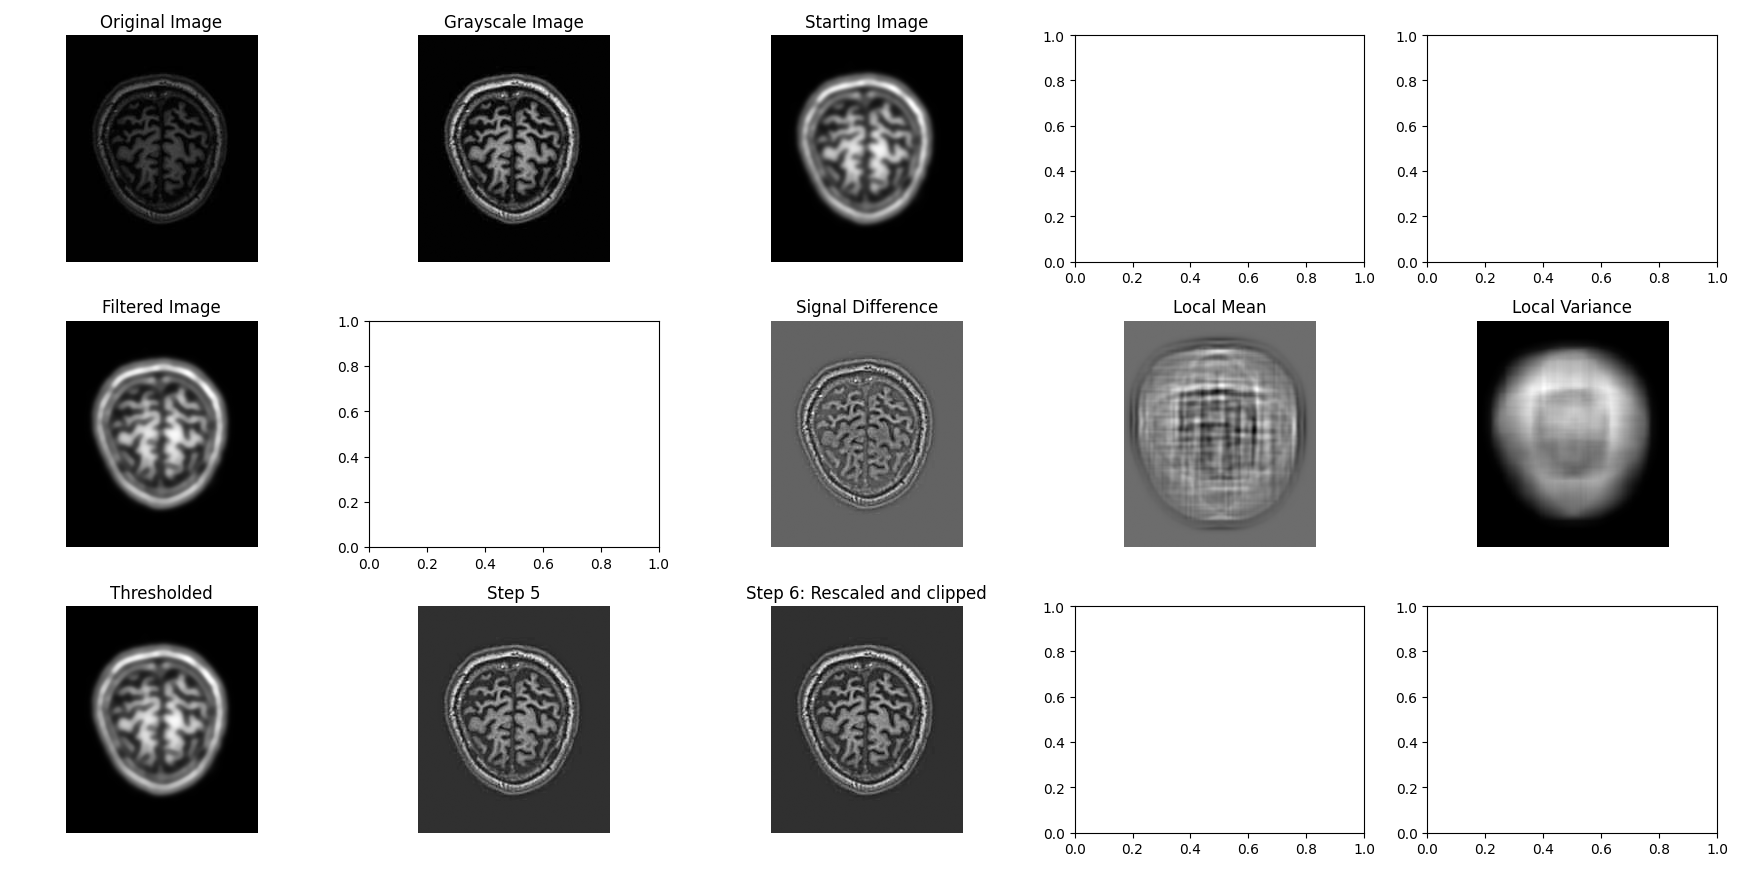
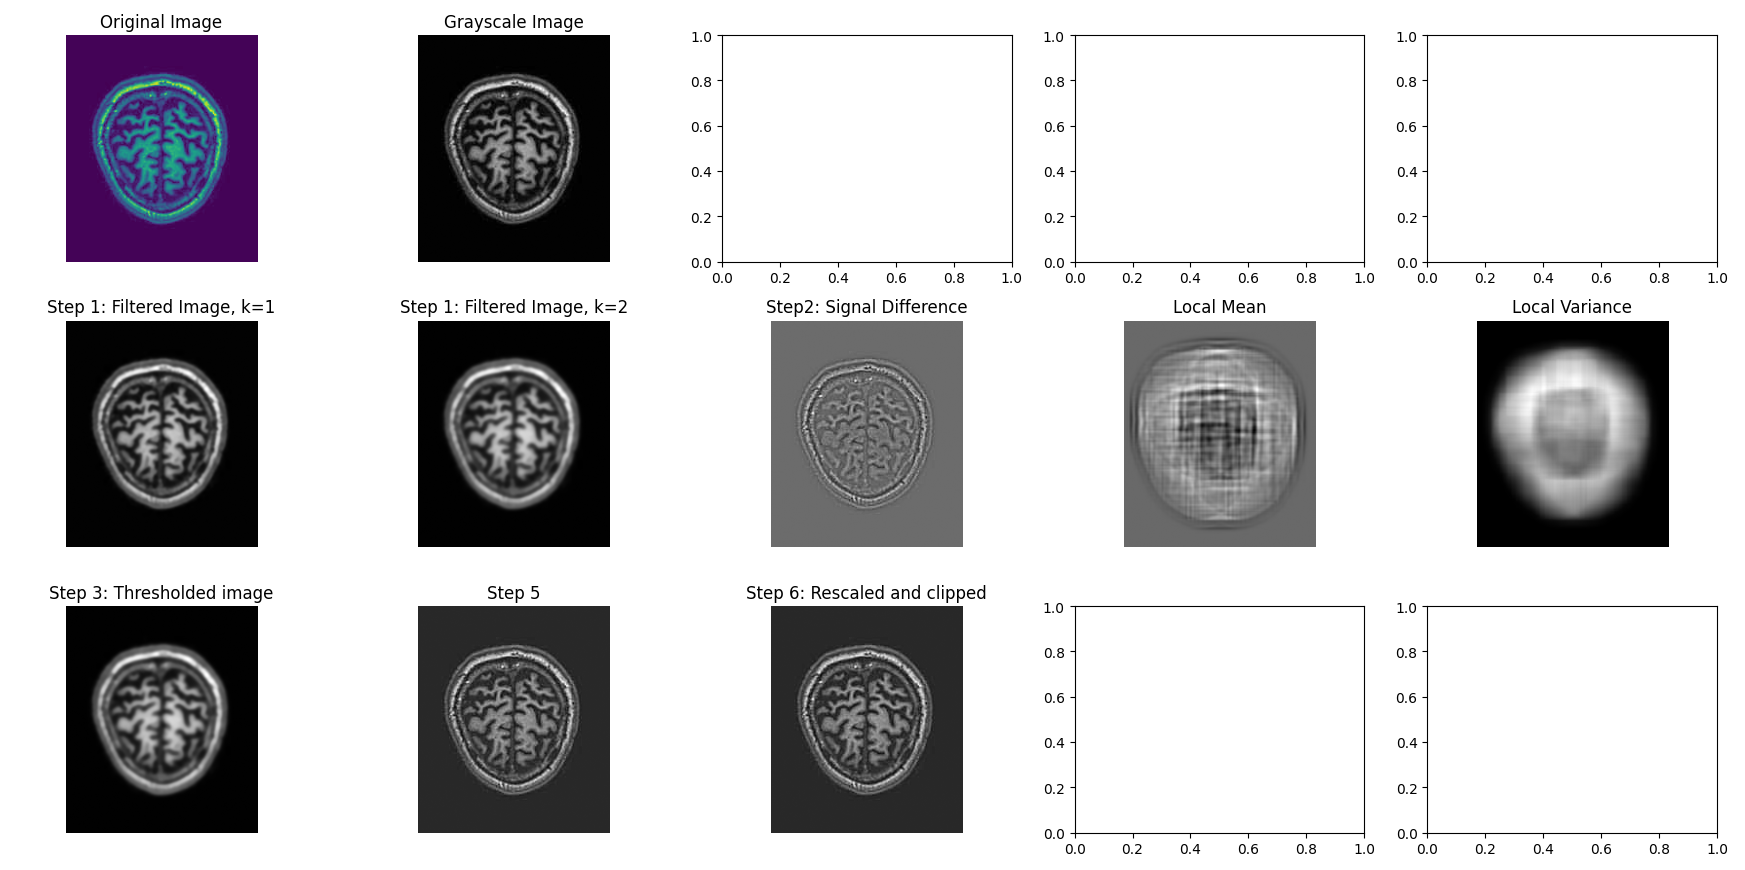
fix: step 6 rescale

diff --git a/src/filter.py b/src/filter.py
@@ -13,7 +13,7 @@ from plot_helper import plot_img, axs
 
 
 def grayscale(image):
-    return np.dot(image[..., :3], [0.299, 0.587, 0.114])
+    return np.dot(image[..., :3], [0.289, 0.587, 0.114])
 
 
 def compute_distance(x_i, y_i, x, y):
@@ -71,7 +71,7 @@ def compute_exp_beta(omega_array, y_omega_array, image, current_pixel):
     return _exp
 
 
-def edge_preseve_fiter(image, alpha=0.5):
+def cluster_filter_v1(image, alpha=0.5):
 
     height = image.shape[0]
     width = image.shape[1]
@@ -103,6 +103,7 @@ def compute_weight_patch(x, y, min_x, max_x, min_y, max_y, alpha=0.5):
 def get_starting_point_v2(image, alpha=0.5, kernel_size=11):
     height, width = image.shape[:2]
     filtered_image = np.zeros((height, width))
+    beta = np.zeros((height, width))
     half_kernel = kernel_size // 2
 
     with alive_bar(height * width, title="Computing y0") as bar:
@@ -116,13 +117,22 @@ def get_starting_point_v2(image, alpha=0.5, kernel_size=11):
                 weight = compute_weight_patch(
                     i, j, min_x, max_x, min_y, max_y, alpha=alpha
                 )
+                mean = np.sum(patch * weight) / np.sum(weight)
+                var2 = np.sum((patch - mean) ** 2 * weight) / np.sum(weight)
+                if var2 < 0.00001:
+                    beta[i, j] = 1
+                else:
+                    beta[i, j] = 1 / (2 * var2)
+                    if beta[i, j] > 1:
+                        beta[i, j] = 1
+
                 filtered_image[i, j] = np.sum(patch * weight) / np.sum(weight)
                 bar()
 
-    return filtered_image
+    return filtered_image, beta
 
 
-def edge_preserve_filter_v2(image, alpha=0.5, kernel_size=11):
+def cluster_filter_v2(image, alpha=0.5, beta=None, kernel_size=11):
     """
     edge_preserve_filter_v1 calculate weight for all pixel of the image,
     since the weight is close to 0 as the distance is far from the current pixel
@@ -145,19 +155,21 @@ def edge_preserve_filter_v2(image, alpha=0.5, kernel_size=11):
                 weight = compute_weight_patch(
                     i, j, min_x, max_x, min_y, max_y, alpha=alpha
                 )
-                mean = np.sum(patch * weight) / np.sum(weight)
-                var2 = np.sum((patch - mean) ** 2 * weight) / np.sum(weight)
-                if var2 < 0.00001:
-                    beta = 1
-                else:
-                    beta = 1 / (2 * var2)
-                    if beta > 1:
-                        beta = 1
+                # mean = np.sum(patch * weight) / np.sum(weight)
+                # var2 = np.sum((patch - mean) ** 2 * weight) / np.sum(weight)
+                # if var2 < 0.00001:
+                #     beta = 1
+                # else:
+                #     beta = 1 / (2 * var2)
+                #     if beta > 1:
+                #         beta = 1
 
                 tuso = np.sum(
-                    patch * weight * np.exp(-beta * (patch - image[i, j]) ** 2)
+                    patch * weight * np.exp(-beta[i, j] * (patch - image[i, j]) ** 2)
                 )
-                mauso = np.sum(weight * np.exp(-beta * (patch - image[i, j]) ** 2))
+                mauso = np.sum(
+                    weight * np.exp(-beta[i, j] * (patch - image[i, j]) ** 2)
+                )
                 filtered_image[i, j] = tuso / mauso
                 bar()
     return filtered_image
@@ -183,3 +195,81 @@ def compute_local_mean_var(image, kernel_size=40):
                 local_var[i, j] = np.var(patch)
                 bar()
     return local_mean, local_var
+
+
+def edge_preserve_filter(image, k=5, alpha=0.5, kernel_size=11):
+
+    filtered_image = image
+    for i in range(k):
+        starting_image, beta = get_starting_point_v2(
+            filtered_image, alpha, kernel_size=kernel_size
+        )
+        # plot_img(axs[0, 2], starting_image, "Starting Image", cmap=plt.get_cmap("gray"))
+        filtered_image = cluster_filter_v2(
+            starting_image, alpha, beta, kernel_size=kernel_size
+        )
+        if i == 0:
+            plot_img(
+                axs[1, 0],
+                filtered_image,
+                f"Step 1: Filtered Image, k=1",
+                cmap=plt.get_cmap("gray"),
+            )
+
+    plot_img(
+        axs[1, 1],
+        filtered_image,
+        f"Step 1: Filtered Image, k={k}",
+        cmap=plt.get_cmap("gray"),
+    )
+
+    Image_i = filtered_image
+    Image_d = image - Image_i  # signal difference
+    plot_img(
+        axs[1, 2],
+        Image_d,
+        "Step2: Signal Difference",
+        cmap=plt.get_cmap("gray"),
+        vmin=None,
+        vmax=None,
+    )
+
+    M, V = compute_local_mean_var(Image_d)
+    plot_img(
+        axs[1, 3], M, "Local Mean", cmap=plt.get_cmap("gray"), vmin=None, vmax=None
+    )
+    plot_img(
+        axs[1, 4], V, "Local Variance", cmap=plt.get_cmap("gray"), vmin=None, vmax=None
+    )
+
+    threshold = V * 2.5
+    Image_m = np.where(np.abs(Image_d - M) < threshold, Image_i, image)
+    plot_img(axs[2, 0], Image_m, "Step 3: Thresholded image", cmap=plt.get_cmap("gray"))
+
+    s = 0.5
+    Image_o = image - s * Image_m
+    plot_img(axs[2, 1], Image_o, "Step 5", cmap=plt.get_cmap("gray"))
+
+    m = np.mean(Image_o)
+    v = np.var(Image_o, mean=m)
+    lower = m - 2.5 * v
+    upper = m + 2.5 * v
+    Io_rescaled = (Image_o - lower) / (upper - lower)
+    plot_img(
+        axs[2, 2],
+        Io_rescaled,
+        "Step 6: Rescale from m-2.5v to m+2.5v",
+        cmap=plt.get_cmap("gray"),
+        vmin=0,
+        vmax=1,
+    )
+
+    plot_img(
+        axs[2, 3],
+        Image_o,
+        "Step 6: Auto rescaled",
+        cmap=plt.get_cmap("gray"),
+        vmin=None,
+        vmax=None,
+    )
+    return filtered_image

diff --git a/src/filter_rgb.py b/src/filter_rgb.py
@@ -1,0 +1,105 @@
+# edge preseving filter
+# icip.1994.413625
+# IMAGE ENHANCEMENT BY EDGE-PRESERVING FILTERING
+# Yiu-fai Wong
+
+from math import exp
+from alive_progress import alive_bar
+from matplotlib import pyplot as plt
+from matplotlib.pylab import f
+import numpy as np
+
+from plot_helper import plot_img, axs
+
+
+def compute_weight_patch(x, y, min_x, max_x, min_y, max_y, alpha=0.5):
+    distance = np.zeros((max_x - min_x, max_y - min_y))
+    for i in range(min_x, max_x):
+        for j in range(min_y, max_y):
+            distance[i - min_x, j - min_y] = (x - i) ** 2 + (y - j) ** 2
+    return np.exp(-alpha * distance)
+
+
+def get_starting_point_v3(image_rgb, image_gray, alpha=0.5, kernel_size=11):
+    height, width = image_gray.shape[:2]
+    filtered_image = np.zeros((height, width))
+    half_kernel = kernel_size // 2
+
+    with alive_bar(height * width, title="Computing y0") as bar:
+        for i in range(height):
+            for j in range(width):
+                min_x = max(0, i - half_kernel)
+                max_x = min(height, i + half_kernel + 1)
+                min_y = max(0, j - half_kernel)
+                max_y = min(width, j + half_kernel + 1)
+                patch = image_gray[min_x:max_x, min_y:max_y]
+                weight = compute_weight_patch(
+                    i, j, min_x, max_x, min_y, max_y, alpha=alpha
+                )
+                filtered_image[i, j] = np.sum(patch * weight) / np.sum(weight)
+                bar()
+
+    return filtered_image
+
+
+def edge_preserve_filter_v3(image_rgb, image_gray, alpha=0.5, kernel_size=11):
+    """
+    edge_preserve_filter_v1 calculate weight for all pixel of the image,
+    since the weight is close to 0 as the distance is far from the current pixel
+    v2 compute weight for only the pixels close to the current pixel
+
+    """
+
+    height, width = image_gray.shape[:2]
+    filtered_image = np.zeros((height, width))
+    half_kernel = kernel_size // 2
+
+    with alive_bar(height * width, title="Filtering") as bar:
+        for i in range(height):
+            for j in range(width):
+                min_x = max(0, i - half_kernel)
+                max_x = min(height, i + half_kernel + 1)
+                min_y = max(0, j - half_kernel)
+                max_y = min(width, j + half_kernel + 1)
+                patch = image_gray[min_x:max_x, min_y:max_y]
+                weight = compute_weight_patch(
+                    i, j, min_x, max_x, min_y, max_y, alpha=alpha
+                )
+                mean = np.sum(patch * weight) / np.sum(weight)
+                var2 = np.sum((patch - mean) ** 2 * weight) / np.sum(weight)
+                if var2 < 0.00001:
+                    beta = 1
+                else:
+                    beta = 1 / (2 * var2)
+                    if beta > 1:
+                        beta = 1
+
+                tuso = np.sum(
+                    patch * weight * np.exp(-beta * (patch - image_gray[i, j]) ** 2)
+                )
+                mauso = np.sum(weight * np.exp(-beta * (patch - image_gray[i, j]) ** 2))
+                filtered_image[i, j] = tuso / mauso
+                bar()
+    return filtered_image
+
+
+def compute_local_mean_var(image, kernel_size=40):
+    height, width = image.shape[:2]
+
+    local_mean = np.zeros((height, width))
+    local_var = np.zeros((height, width))
+
+    half_kernel = kernel_size // 2
+    with alive_bar(height * width, title="Step3") as bar:
+        for i in range(height):
+            for j in range(width):
+                x_start = max(0, i - half_kernel)
+                x_end = min(height, i + half_kernel + 1)
+                y_start = max(0, j - half_kernel)
+                y_end = min(width, j + half_kernel + 1)
+
+                patch = image[x_start:x_end, y_start:y_end]
+                local_mean[i, j] = np.mean(patch)
+                local_var[i, j] = np.var(patch)
+                bar()
+    return local_mean, local_var

diff --git a/src/main.py b/src/main.py
@@ -13,66 +13,32 @@ from plot_helper import *
 """
 change here
 """
-# image_path = ( # MRI image
+# image_path = (  # MRI image
 #     "./assets/MRI/ADNI_002_S_1070_130146_ACPC/ADNI_002_S_1070_130146_ACPC_142.jpg"
 # )
-image_path = "./assets/cloud.jpg"
+# image_path = (
+#     "./assets/MRI/ADNI_002_S_1155_274154_ACPC/ADNI_002_S_1155_274154_ACPC_150.jpg"
+# )
+image_path = "./assets/MRI/Test.jpg"
 image_name = image_path.split("/")[-1]
 output_path = "./output/" + image_name
 
 
-image = cv2.imread(image_path)
-image = cv2.cvtColor(image, cv2.COLOR_BGR2RGB)
+# image = cv2.imread(image_path)
+# image = cv2.cvtColor(image, cv2.COLOR_BGR2RGB)
+# image_gray = grayscale(image)
 
-image_gray = grayscale(image)
+image = cv2.imread(image_path, cv2.IMREAD_GRAYSCALE)
+image_gray = image
+# print(np.max(image_gray))
+# print(np.min(image_gray))
 
-image_height, image_width = image.shape[:2]
-
-plot_img(axs[0, 0], image, "Original Image")
+plot_img(axs[0, 0], image, "Original Image (grayscale but shown in RGB)")
 plot_img(axs[0, 1], image_gray, "Grayscale Image", cmap=plt.get_cmap("gray"))
 
 alpha = 0.5
-k = 2  #! k is 5 in the original paper
-filtered_image = image_gray
-for i in range(k):
-    starting_image = get_starting_point_v2(filtered_image, alpha, kernel_size=7)
-    # plot_img(axs[0, 2], starting_image, "Starting Image", cmap=plt.get_cmap("gray"))
-    filtered_image = edge_preserve_filter_v2(starting_image, alpha, kernel_size=7)
-
-plot_img(
-    axs[1, 0],
-    filtered_image,
-    f"Step 1: Filtered Image, k={k}",
-    cmap=plt.get_cmap("gray"),
-)
-
-Image_i = filtered_image
-Image_d = image_gray - Image_i  # signal difference
-plot_img(axs[1, 2], Image_d, "Step2: Signal Difference", cmap=plt.get_cmap("gray"))
-
-M, V = compute_local_mean_var(Image_d)
-plot_img(axs[1, 3], M, "Local Mean", cmap=plt.get_cmap("gray"))
-plot_img(axs[1, 4], V, "Local Variance", cmap=plt.get_cmap("gray"))
-
-threshold = V * 2.5
-Image_m = np.where(np.abs(Image_d - M) < threshold, Image_i, image_gray)
-plot_img(axs[2, 0], Image_m, "Step 3: Thresholded image", cmap=plt.get_cmap("gray"))
-
-s = 0.5
-Image_o = image_gray - s * Image_m
-plot_img(axs[2, 1], Image_o, "Step 5", cmap=plt.get_cmap("gray"))
-
-m = np.mean(Image_o)
-v = np.var(Image_o, mean=m)
-lower = m - 2.5 * v
-upper = m + 2.5 * v
-# Io_clipped = np.clip(Image_o, lower, upper)
-Io_rescaled = (Image_o - lower) / (upper - lower)
-plot_img(axs[2, 2], Io_rescaled, "Step 6: Rescaled", cmap=plt.get_cmap("gray"))
-Io_clipped = np.clip(Io_rescaled, lower, upper)
-plot_img(
-    axs[2, 2], Io_rescaled, "Step 6: Rescaled and clipped", cmap=plt.get_cmap("gray")
-)
+k = 5  #! k is 5 in the original paper
+filtered_image = edge_preserve_filter(image_gray, k=k, alpha=alpha, kernel_size=11)
 
 plt.tight_layout()
 plt.show()

diff --git a/src/plot_helper.py b/src/plot_helper.py
@@ -9,7 +9,7 @@ def set_subplot(rows, cols):
     fig, axs = plt.subplots(rows, cols)
 
 
-def plot_img(ax: matplotlib.axes.Axes, img, title, cmap=None):
-    ax.imshow(img, cmap=cmap)
+def plot_img(ax: matplotlib.axes.Axes, img, title, cmap=None, vmin=0, vmax=255):
+    ax.imshow(img, cmap=cmap, vmin=vmin, vmax=vmax)
     ax.set_title(title)
     ax.axis("off")
